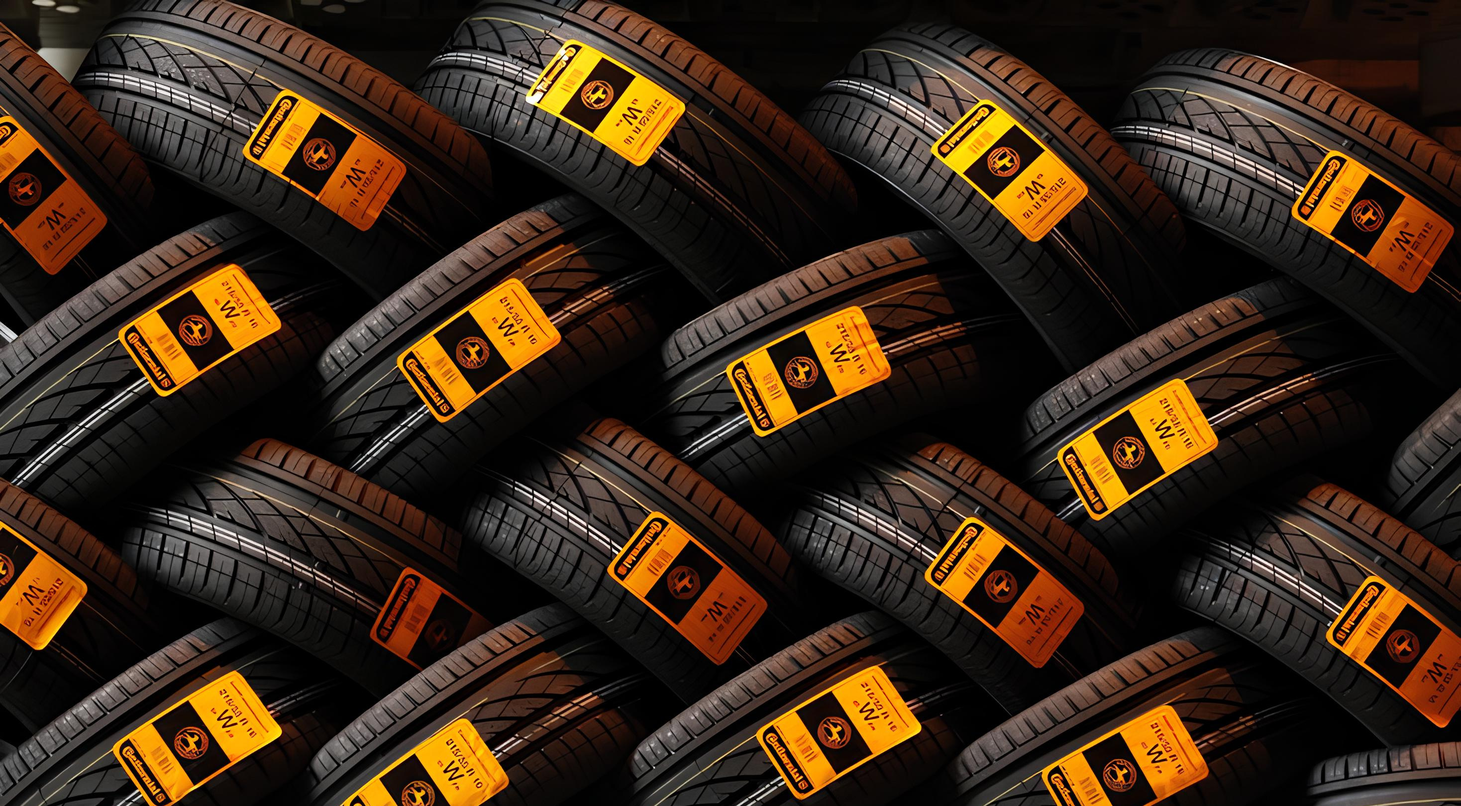
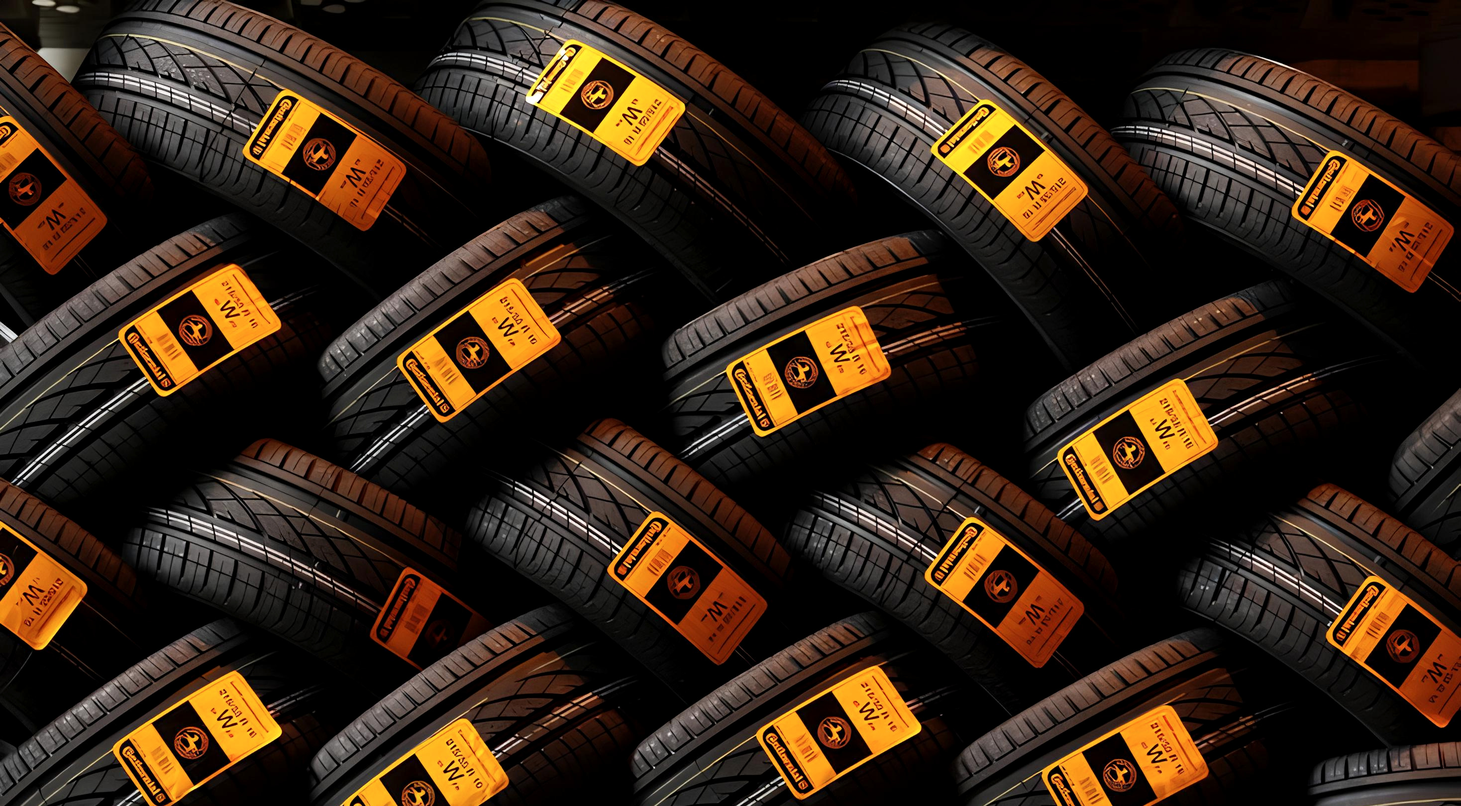
perf: bake the hero image filters into the assets
Scrolling the hero held around 30fps on a throttled CPU. Almost all of it was
the CSS blur on the full-screen background image, which forces the layer to be
re-rasterised on every frame the parallax moves it; the grayscale, contrast and
saturation filters on the two hero photographs cost on top of that.

Those adjustments are now baked into the files, and the headline uses a text
shadow rather than a drop-shadow filter, which no longer builds a filter layer
for an element that is transformed every frame.

Median frame time over the hero scroll goes from 33.3ms to 16.7ms, and frames
above 32ms from 68 of 99 to 4.

Claude-Session: https://claude.ai/code/session_01DcfMqsNyCMDYBbuXKnhpvZ

diff --git a/src/components/hero.tsx b/src/components/hero.tsx
@@ -54,13 +54,18 @@ export function Hero() {
           className="absolute inset-x-0 -top-[12%] h-[124%]"
           style={{ y: still ? "0%" : treadShift }}
         >
+          {/*
+            The blur, grayscale and contrast are baked into this file. Running
+            them as CSS filters on a full-screen image cost about half the frame
+            budget while the hero was scrolling.
+          */}
           <Image
-            src="/img/tread-macro.png"
+            src="/img/tread-blur.jpg"
             alt=""
             fill
             priority
             sizes="100vw"
-            className="scale-125 object-cover opacity-[0.15] blur-[3px] grayscale-[0.9] contrast-[1.25]"
+            className="scale-125 object-cover opacity-[0.15]"
           />
         </motion.div>
 
@@ -98,7 +103,7 @@ export function Hero() {
               priority
               sizes="100vw"
               quality={92}
-              className="object-cover contrast-[1.06] saturate-[0.92]"
+              className="object-cover"
             />
           </motion.div>
           <motion.div
@@ -125,13 +130,13 @@ export function Hero() {
           {/* Headline parts as the aperture opens, letting the photo through. */}
           <h1 className="pointer-events-none my-auto flex flex-col items-center justify-center text-center">
             <motion.span
-              className="font-display text-[clamp(2.5rem,8.2vw,6.4rem)] leading-[0.94] font-extrabold tracking-[-0.03em] text-chalk drop-shadow-[0_8px_28px_rgba(16,19,25,0.95)]"
+              className="font-display text-[clamp(2.5rem,8.2vw,6.4rem)] leading-[0.94] font-extrabold tracking-[-0.03em] text-chalk [text-shadow:0_6px_26px_rgba(16,19,25,0.95)]"
               style={{ x: still ? "-31%" : leftShift }}
             >
               Tyres fitted
             </motion.span>
             <motion.span
-              className="font-display text-[clamp(2.5rem,8.2vw,6.4rem)] leading-[0.94] font-extrabold tracking-[-0.03em] text-hazard drop-shadow-[0_8px_28px_rgba(16,19,25,0.95)]"
+              className="font-display text-[clamp(2.5rem,8.2vw,6.4rem)] leading-[0.94] font-extrabold tracking-[-0.03em] text-hazard [text-shadow:0_6px_26px_rgba(16,19,25,0.95)]"
               style={{ x: still ? "31%" : rightShift }}
             >
               while you wait
